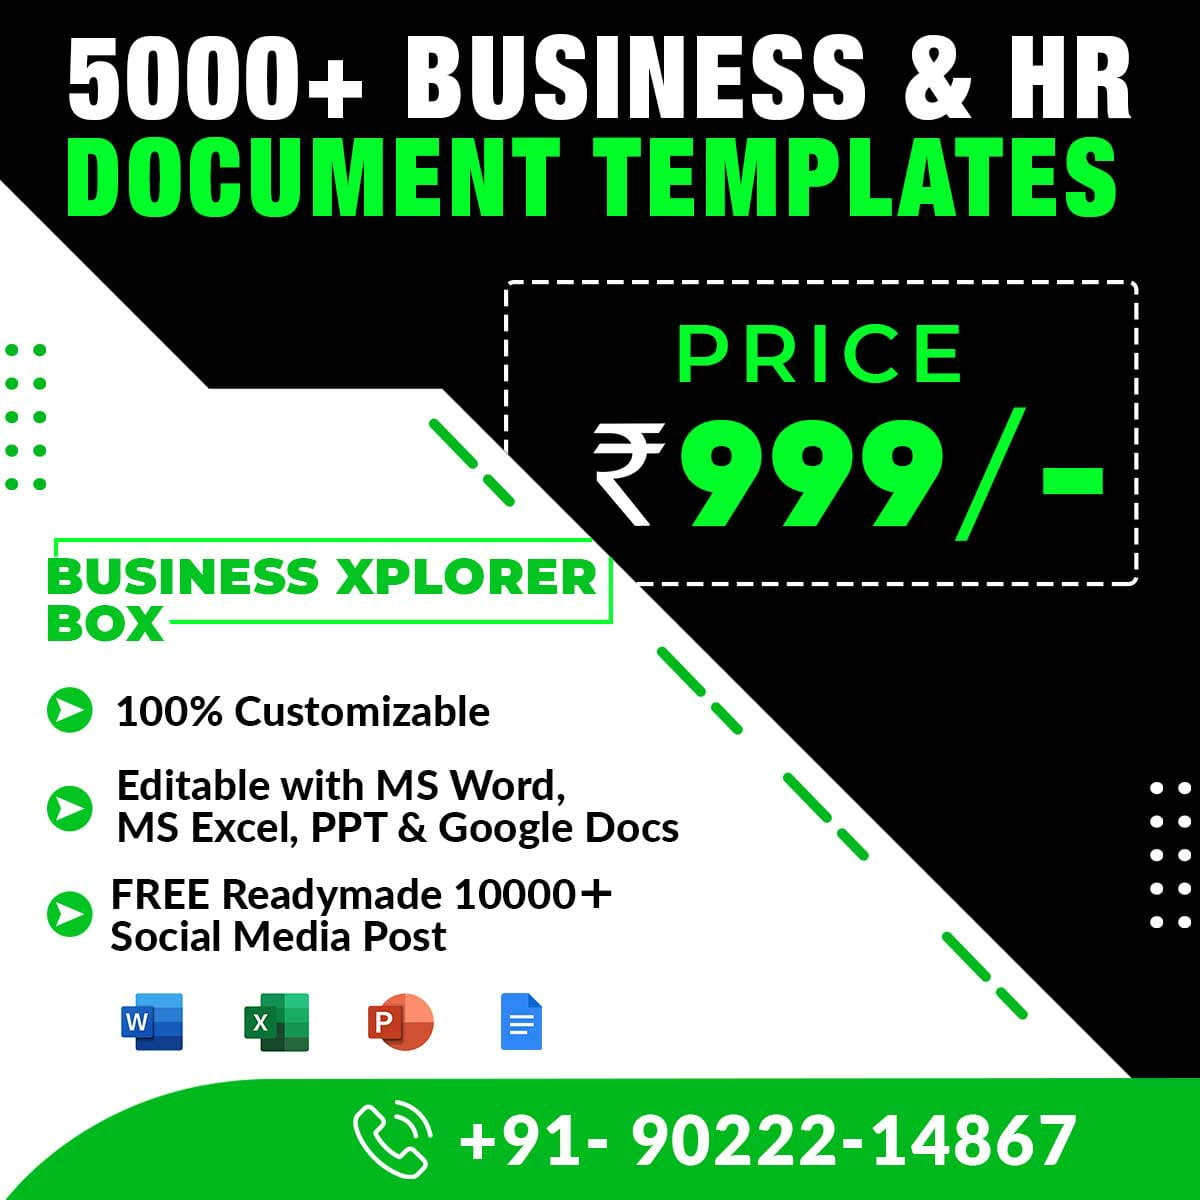
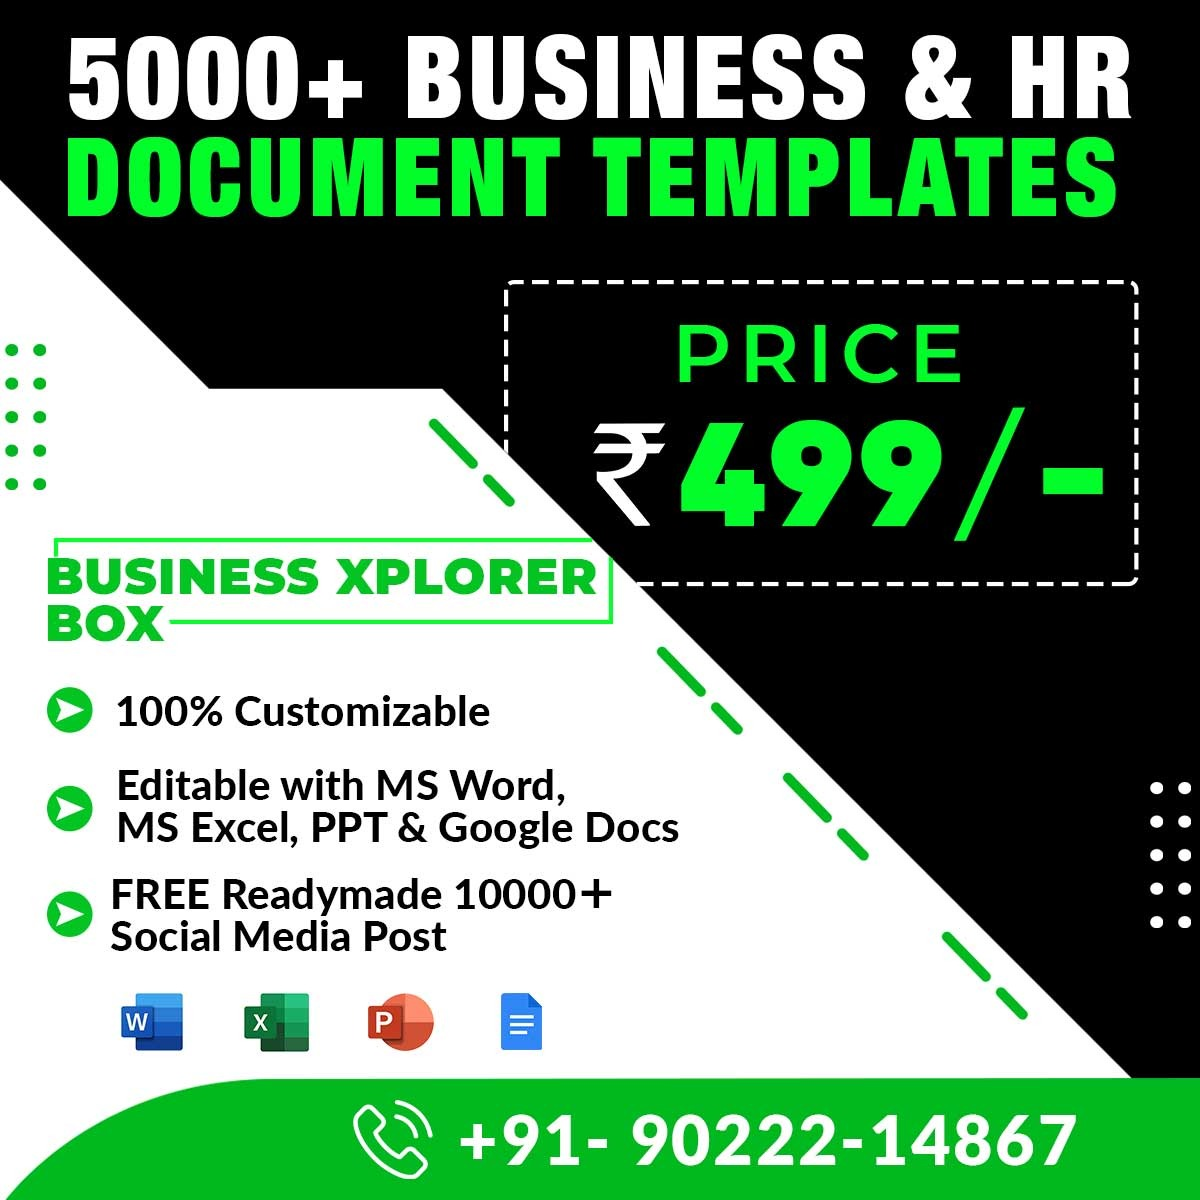
Produt CHannge

Changed region(s): [[0.555, 0.3392, 0.8325, 0.4625], [0.8325, 0.3392, 0.8633, 0.37]]

diff --git a/Digital Bundle Products.html b/Digital Bundle Products.html
@@ -301,7 +301,7 @@
                             </div>
                         </div>
                         <div class="team-content">
-                            <h5 class="holder-name"><a href="#">ONLY ₹ 999/-</a></h5>
+                            <h5 class="holder-name"><a href="#">ONLY ₹ 499/-</a></h5>
                             <p class="text">5K+ DOCUMENT TEMPLETES</p>
                         </div>
                     </div> 
